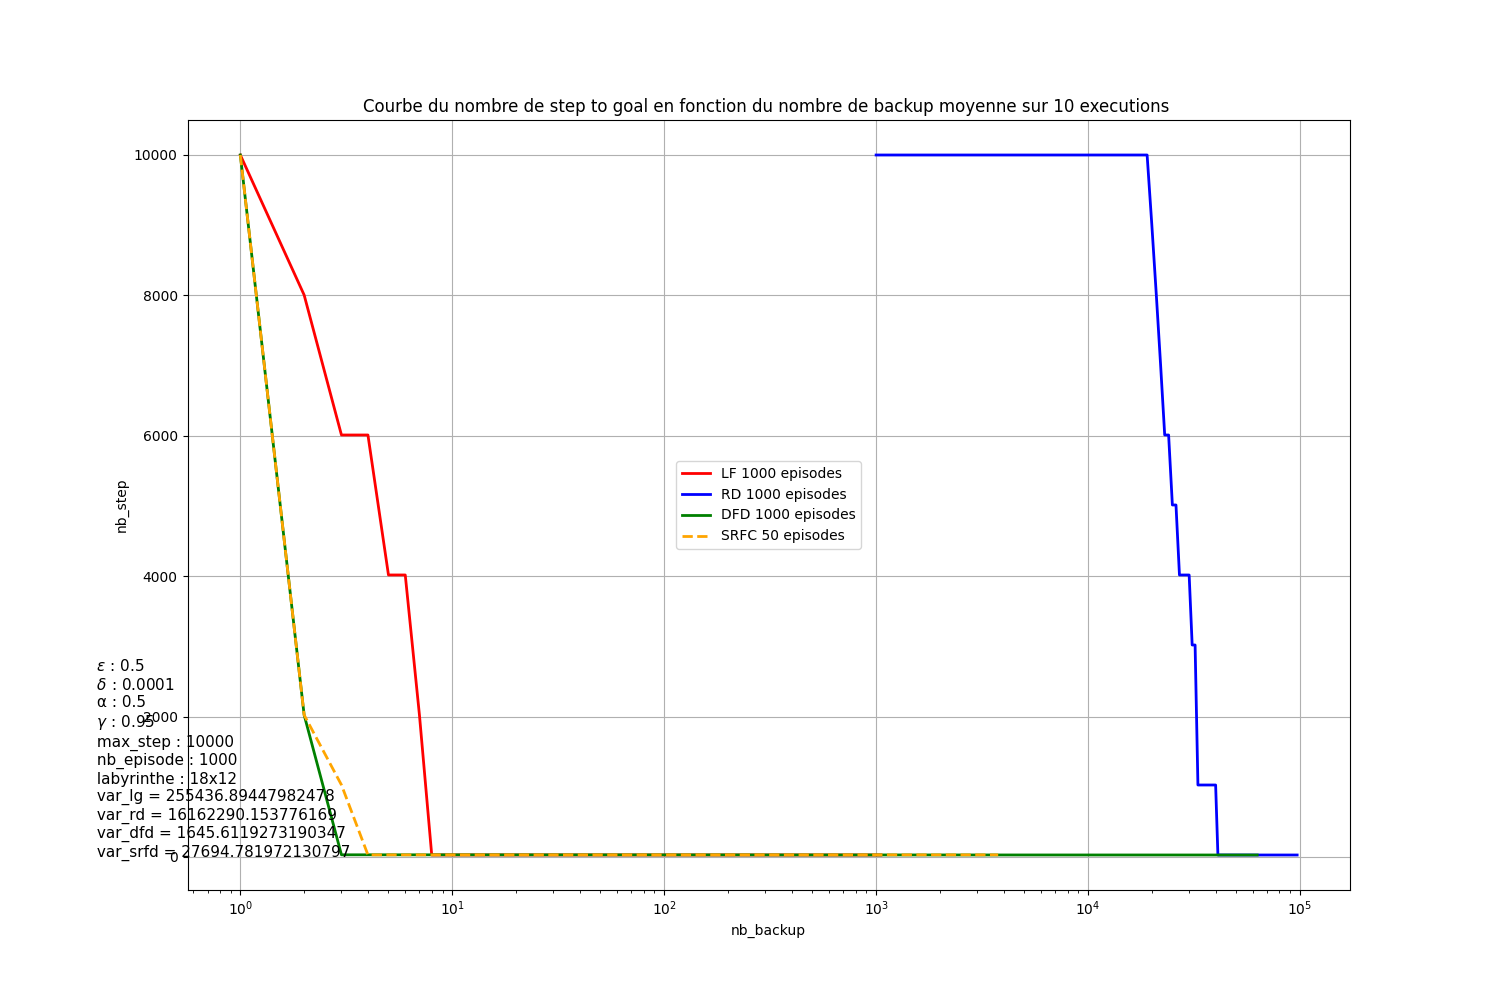
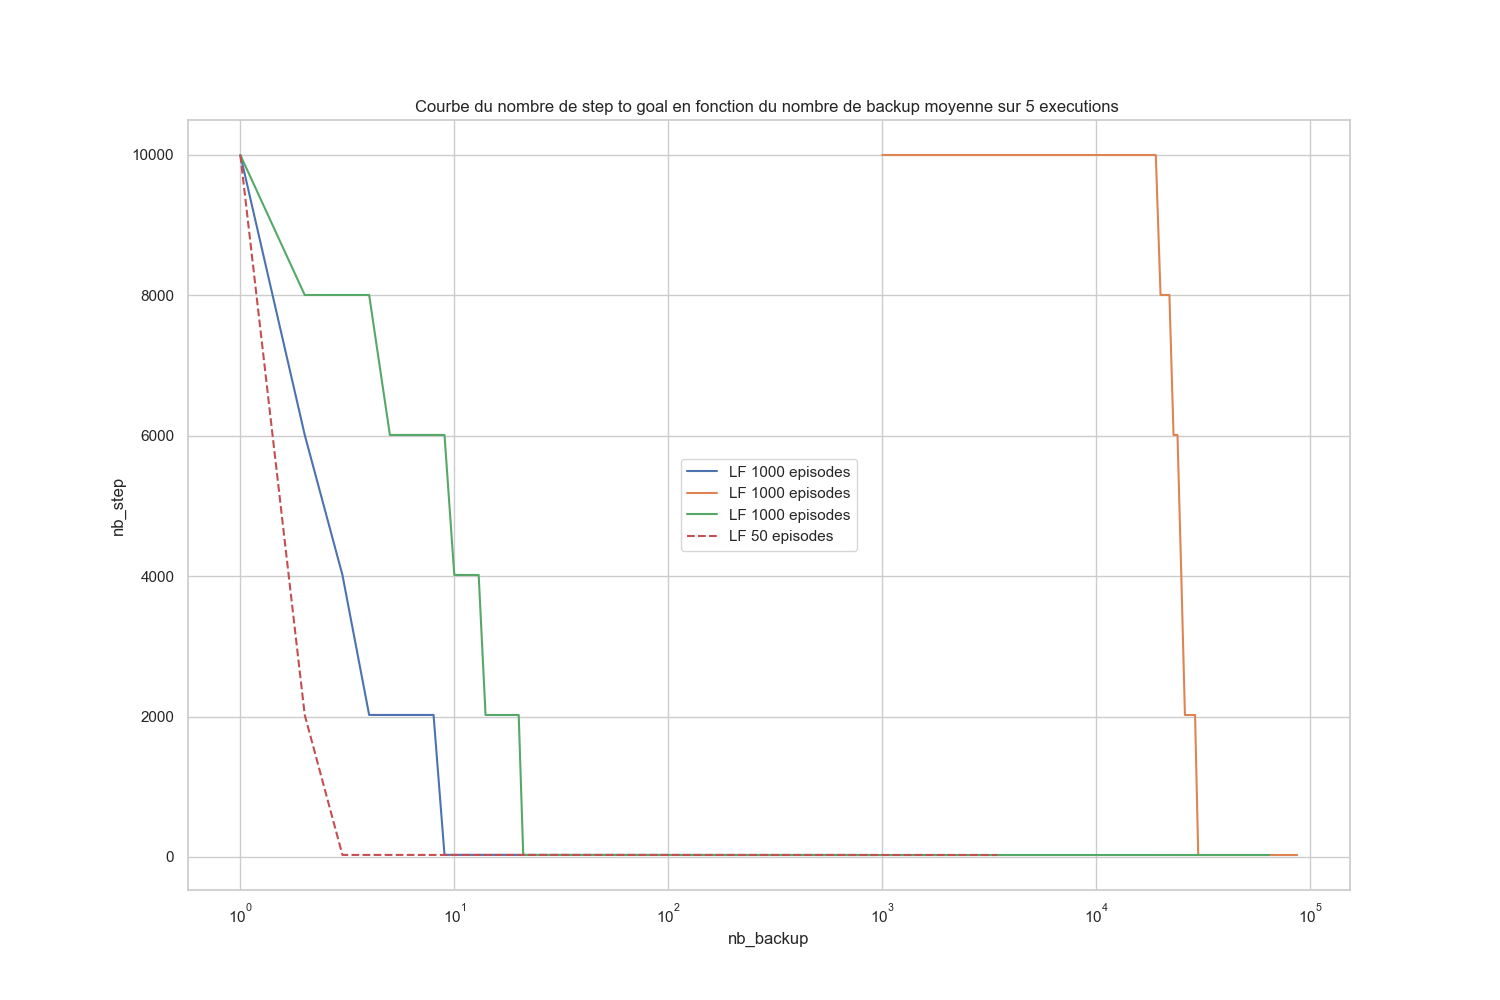
Minor update

diff --git a/prma/fig-8.py b/prma/fig-8.py
@@ -15,7 +15,6 @@ import os
 from omegaconf import OmegaConf
 
 import seaborn as sns
-sns.set_theme(style="whitegrid")
 
 
 # Load YAML config file as DictConfig
@@ -91,27 +90,23 @@ for i in range(nb_exec):
     nb_steps = data.iloc[:, 1].tolist()
     nb_backup = data.iloc[:,0].tolist()
     all_steps_srfd.append(nb_steps)
-    all_backups_srfd.append(nb_backup) 
+    all_backups_srfd.append(nb_backup)
 
 
-
-# Calcul de la variance
-var_lg = np.var(moyenne_par_indice(all_steps_lg))
-var_rd = np.var(moyenne_par_indice(all_steps_rd))
-var_dfd = np.var(moyenne_par_indice(all_steps_dfd))
-var_srfd = np.var(moyenne_par_indice(all_steps_srfd))
 
 
 # FIGURES
 plt.figure(figsize=(15,10))
 
-sns.lineplot(x=moyenne_par_indice(all_backups_lg), y=moyenne_par_indice(all_steps_lg), color='red', linewidth=2, label=f"LF {QueueDyna.episode} episodes")
+sns.set_theme(style="whitegrid")
 
-sns.lineplot(x=moyenne_par_indice(all_backups_rd), y=moyenne_par_indice(all_backups_rd), color='blue', linewidth=2, label=f"LF {RDyna.episode} episodes")
+sns.lineplot(x=moyenne_par_indice(all_backups_lg), y=moyenne_par_indice(all_steps_lg),label = f"LF {QueueDyna.episode} episodes",errorbar='sd',err_style='band')
 
-sns.lineplot(x=moyenne_par_indice(all_backups_dfd), y=moyenne_par_indice(all_backups_dfd), color='green', linewidth=2, label=f"LF {Djikstra.episode} episodes")
+sns.lineplot(x=moyenne_par_indice(all_backups_rd), y=moyenne_par_indice(all_steps_rd),label = f"LF {RDyna.episode} episodes",errorbar='sd',err_style='band')
 
-sns.lineplot(x=moyenne_par_indice(all_backups_srfd), y=moyenne_par_indice(all_backups_srfd), color='orange', linewidth=2, label=f"LF {SR.episode} episodes",linestyle="--")
+sns.lineplot(x=moyenne_par_indice(all_backups_dfd), y=moyenne_par_indice(all_steps_dfd),label = f"LF {Djikstra.episode} episodes",errorbar='sd',err_style='band')
+
+sns.lineplot(x=moyenne_par_indice(all_backups_srfd), y=moyenne_par_indice(all_steps_srfd),label = f"LF {SR.episode} episodes",errorbar='sd',linestyle="--",err_style='band')
 
 #plt.plot(moyenne_par_indice(all_backups_lg), moyenne_par_indice(all_steps_lg), color='red', linewidth=2, label = f"LF {QueueDyna.episode} episodes")
 
@@ -123,7 +118,7 @@ sns.lineplot(x=moyenne_par_indice(all_backups_srfd), y=moyenne_par_indice(all_ba
 
 
 
-plt.text(0.2,0.5, f" $\epsilon$ : {config.main.epsilon}\n $\delta$ : {config.main.delta}\n α : {config.main.alpha}\n $\gamma$ : {config.main.gamma}\n max_step : {config.main.max_step}\n nb_episode : {config.main.nb_episode}\n labyrinthe : {laby}\n var_lg = {var_lg}\n var_rd = {var_rd}\n var_dfd = {var_dfd}\n var_srfd = {var_srfd}", fontsize =11)
+#plt.text(0.2,0.5, f" $\epsilon$ : {config.main.epsilon}\n $\delta$ : {config.main.delta}\n α : {config.main.alpha}\n $\gamma$ : {config.main.gamma}\n max_step : {config.main.max_step}\n nb_episode : {config.main.nb_episode}\n labyrinthe : {laby}", fontsize =11)
 
 plt.title(f'Courbe du nombre de step to goal en fonction du nombre de backup moyenne sur {nb_exec} executions ')
 plt.xlabel('nb_backup')
